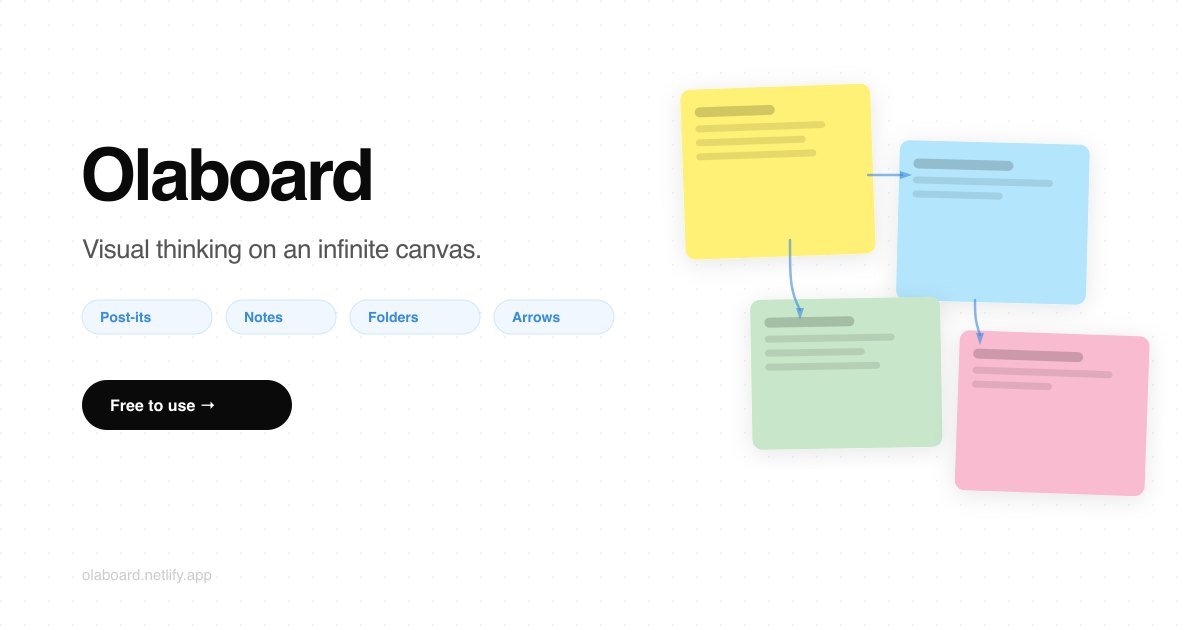
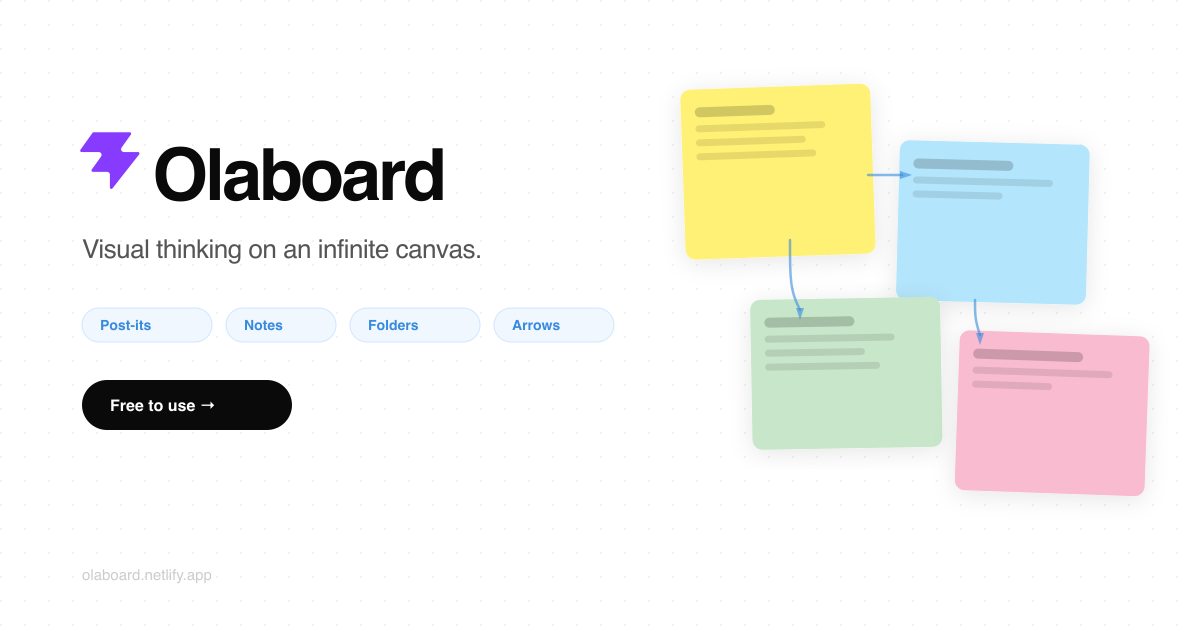
feat: add OlaboardLogo component across nav, sidebar and og-image

diff --git a/src/components/PricingPage.jsx b/src/components/PricingPage.jsx
@@ -1,6 +1,7 @@
 import { useNavigate } from 'react-router-dom'
 import { useState, useEffect } from 'react'
 import { ArrowRight, Check } from 'lucide-react'
+import OlaboardLogo from './OlaboardLogo'
 
 const GITHUB_URL = 'https://github.com/mbarealbo/olaboard'
 
@@ -64,7 +65,7 @@ export default function PricingPage() {
 
       {/* Nav */}
       <nav style={{ position: 'fixed', top: 0, left: 0, right: 0, height: 54, zIndex: 100, display: 'flex', alignItems: 'center', padding: `0 ${px}`, background: 'rgba(255,255,255,0.9)', backdropFilter: 'blur(14px)', borderBottom: '1px solid rgba(0,0,0,0.06)' }}>
-        <button onClick={() => navigate('/landing')} style={{ fontSize: 15, fontWeight: 750, letterSpacing: '-0.5px', background: 'none', border: 'none', cursor: 'pointer', padding: 0, color: '#0a0a0a' }}>Olaboard</button>
+        <button onClick={() => navigate('/landing')} style={{ background: 'none', border: 'none', cursor: 'pointer', padding: 0 }}><OlaboardLogo size={20} fontSize={15} /></button>
         <div style={{ flex: 1 }} />
         <button onClick={() => navigate('/landing')} style={{ fontSize: 13, fontWeight: 600, background: 'transparent', color: '#555', border: 'none', borderRadius: 8, cursor: 'pointer', padding: '8px 14px', marginRight: 4 }}
           onMouseEnter={e => e.currentTarget.style.color = '#111'} onMouseLeave={e => e.currentTarget.style.color = '#555'}
@@ -173,7 +174,7 @@ export default function PricingPage() {
 
       {/* Footer */}
       <footer style={{ padding: `22px ${px}`, display: 'flex', alignItems: 'center', gap: 16, borderTop: '1px solid #f0f0f0' }}>
-        <span style={{ fontSize: 13, fontWeight: 750, letterSpacing: '-0.3px' }}>Olaboard</span>
+        <OlaboardLogo size={16} fontSize={13} />
         <div style={{ flex: 1 }} />
         <span style={{ fontSize: 12, color: '#ccc' }}>Made with ♥ by Albo — <a href="https://olab.quest" target="_blank" rel="noreferrer" style={{ color: '#ccc', textDecoration: 'none' }}>olab.quest</a></span>
         <a href={GITHUB_URL} target="_blank" rel="noreferrer" style={{ display: 'flex', alignItems: 'center', gap: 5, fontSize: 12, color: '#999', textDecoration: 'none', transition: 'color 0.15s' }}

diff --git a/src/components/AuthPage.jsx b/src/components/AuthPage.jsx
@@ -2,6 +2,7 @@ import { useState, useEffect } from 'react'
 import { useNavigate, useSearchParams } from 'react-router-dom'
 import { supabase } from '../lib/supabase'
 import { useLang } from '../contexts/LangContext'
+import OlaboardLogo from './OlaboardLogo'
 
 const inputStyle = {
   width: '100%', boxSizing: 'border-box',
@@ -146,7 +147,7 @@ export default function AuthPage() {
       <Page>
         <Card>
           <div style={{ textAlign: 'center', marginBottom: 24 }}>
-            <div style={{ fontSize: 22, fontWeight: 800, letterSpacing: '-0.8px', marginBottom: 6 }}>Olaboard</div>
+            <div style={{ marginBottom: 6, display: 'flex', justifyContent: 'center' }}><OlaboardLogo size={24} fontSize={22} gap={9} /></div>
             <p style={{ fontSize: 13, color: '#888', margin: 0 }}>{isIT ? 'Imposta la nuova password.' : 'Set your new password.'}</p>
           </div>
           <form onSubmit={handleNewPassword}>
@@ -171,7 +172,7 @@ export default function AuthPage() {
     <Page>
       {/* Nav */}
       <nav style={{ position: 'fixed', top: 0, left: 0, right: 0, height: 54, zIndex: 100, display: 'flex', alignItems: 'center', padding: '0 28px', background: 'rgba(255,255,255,0.9)', backdropFilter: 'blur(14px)', borderBottom: '1px solid rgba(0,0,0,0.06)' }}>
-        <button onClick={() => navigate('/landing')} style={{ fontSize: 15, fontWeight: 750, letterSpacing: '-0.5px', background: 'none', border: 'none', cursor: 'pointer', padding: 0, color: '#0a0a0a' }}>Olaboard</button>
+        <button onClick={() => navigate('/landing')} style={{ background: 'none', border: 'none', cursor: 'pointer', padding: 0 }}><OlaboardLogo size={20} fontSize={15} /></button>
         <div style={{ flex: 1 }} />
         <button onClick={() => navigate('/app')} style={{ fontSize: 13, color: '#555', background: 'none', border: 'none', cursor: 'pointer', fontFamily: 'inherit' }}
           onMouseEnter={e => e.currentTarget.style.color = '#111'} onMouseLeave={e => e.currentTarget.style.color = '#555'}

diff --git a/src/App.jsx b/src/App.jsx
@@ -11,6 +11,7 @@ import { useHistory } from './hooks/useHistory'
 import { CARD_W, CARD_H_HALF, uid } from './utils'
 import { supabase } from './lib/supabase'
 import AuthPage from './components/AuthPage'
+import OlaboardLogo from './components/OlaboardLogo'
 import LandingPage from './components/LandingPage'
 import PricingPage from './components/PricingPage'
 import MobileBlock from './components/MobileBlock'
@@ -999,7 +1000,7 @@ function AppInner({ userId, userEmail }) {
         <div style={{ width: 210, flexShrink: 0, background: 'var(--sidebar-bg)', borderRight: '1px solid var(--border)', display: 'flex', flexDirection: 'column', overflow: 'hidden' }}>
           {/* Top scrollable section */}
           <div style={{ flex: 1, overflowY: 'auto' }}>
-            <div style={{ padding: '14px 12px 10px', fontSize: 18, fontWeight: 700, letterSpacing: '-0.5px', color: 'var(--text)', fontFamily: 'system-ui, sans-serif' }}>Olaboard</div>
+            <div style={{ padding: '14px 12px 10px' }}><OlaboardLogo size={20} fontSize={16} gap={7} color='var(--text)' /></div>
             <div style={{ padding: '0 12px 4px', fontSize: 10, fontWeight: 700, color: 'var(--text-muted)', letterSpacing: 1, textTransform: 'uppercase' }}>{t('boards')}</div>
             {boards.map(board => {
               const isActive = stack[0] === board.id
@@ -1104,7 +1105,7 @@ function AppInner({ userId, userEmail }) {
               }}
             >{t('newBoard')}</button>
             <div style={{ padding: '10px 12px 12px', borderTop: '1px solid #eee', marginTop: 4 }}>
-              <div style={{ fontSize: 13, fontWeight: 600, color: '#222', lineHeight: 1.4 }}>Olaboard</div>
+              <OlaboardLogo size={14} fontSize={12} gap={5} color='#222' />
               <div style={{ fontSize: 11, color: '#888', marginTop: 2 }}>
                 Made by{' '}
                 <a href="https://olab.quest" target="_blank" rel="noopener noreferrer" style={{ color: '#378ADD', textDecoration: 'none' }}>olab.quest</a>

diff --git a/src/components/LandingPage.jsx b/src/components/LandingPage.jsx
@@ -1,6 +1,7 @@
 import { useEffect, useRef, useState } from 'react'
 import { useNavigate } from 'react-router-dom'
 import { ArrowRight, Zap, GitBranch, FileText, Layers, ChevronRight } from 'lucide-react'
+import OlaboardLogo from './OlaboardLogo'
 
 function GithubIcon({ size = 16 }) {
   return (
@@ -381,7 +382,7 @@ export default function LandingPage() {
 
       {/* ── Nav ─────────────────────────────────────────────────────────── */}
       <nav style={{ position: 'fixed', top: 0, left: 0, right: 0, height: 54, zIndex: 100, display: 'flex', alignItems: 'center', padding: `0 ${px}`, background: 'rgba(255,255,255,0.9)', backdropFilter: 'blur(14px)', borderBottom: '1px solid rgba(0,0,0,0.06)' }}>
-        <span style={{ fontSize: 15, fontWeight: 750, letterSpacing: '-0.5px' }}>Olaboard</span>
+        <OlaboardLogo size={20} fontSize={15} />
         <div style={{ flex: 1 }} />
         {!isMobile && (
           <button onClick={() => navigate('/pricing')} style={{ fontSize: 13, fontWeight: 600, background: 'transparent', color: '#555', border: 'none', borderRadius: 8, cursor: 'pointer', padding: '8px 14px', marginRight: 2, transition: 'color 0.15s' }}

diff --git a/src/components/OlaboardLogo.jsx b/src/components/OlaboardLogo.jsx
@@ -1,0 +1,12 @@
+export default function OlaboardLogo({ size = 22, fontSize = 15, color = '#0a0a0a', gap = 7 }) {
+  return (
+    <span style={{ display: 'inline-flex', alignItems: 'center', gap }}>
+      <svg width={size} height={size * (46 / 48)} viewBox="0 0 48 46" fill="none" xmlns="http://www.w3.org/2000/svg" style={{ flexShrink: 0 }}>
+        <path fill="#863bff" d="M25.946 44.938c-.664.845-2.021.375-2.021-.698V33.937a2.26 2.26 0 0 0-2.262-2.262H10.287c-.92 0-1.456-1.04-.92-1.788l7.48-10.471c1.07-1.497 0-3.578-1.842-3.578H1.237c-.92 0-1.456-1.04-.92-1.788L10.013.474c.214-.297.556-.474.92-.474h28.894c.92 0 1.456 1.04.92 1.788l-7.48 10.471c-1.07 1.498 0 3.579 1.842 3.579h11.377c.943 0 1.473 1.088.89 1.83L25.947 44.94z"/>
+      </svg>
+      <span style={{ fontSize, fontWeight: 750, letterSpacing: '-0.5px', color, lineHeight: 1 }}>
+        Olaboard
+      </span>
+    </span>
+  )
+}
